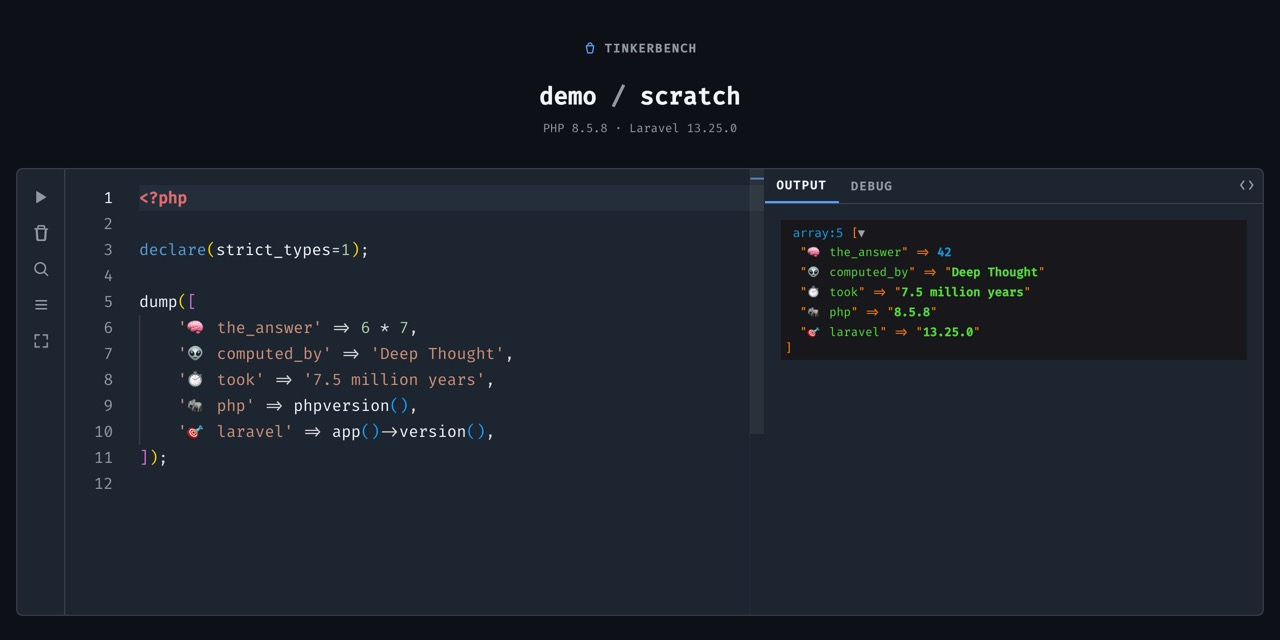
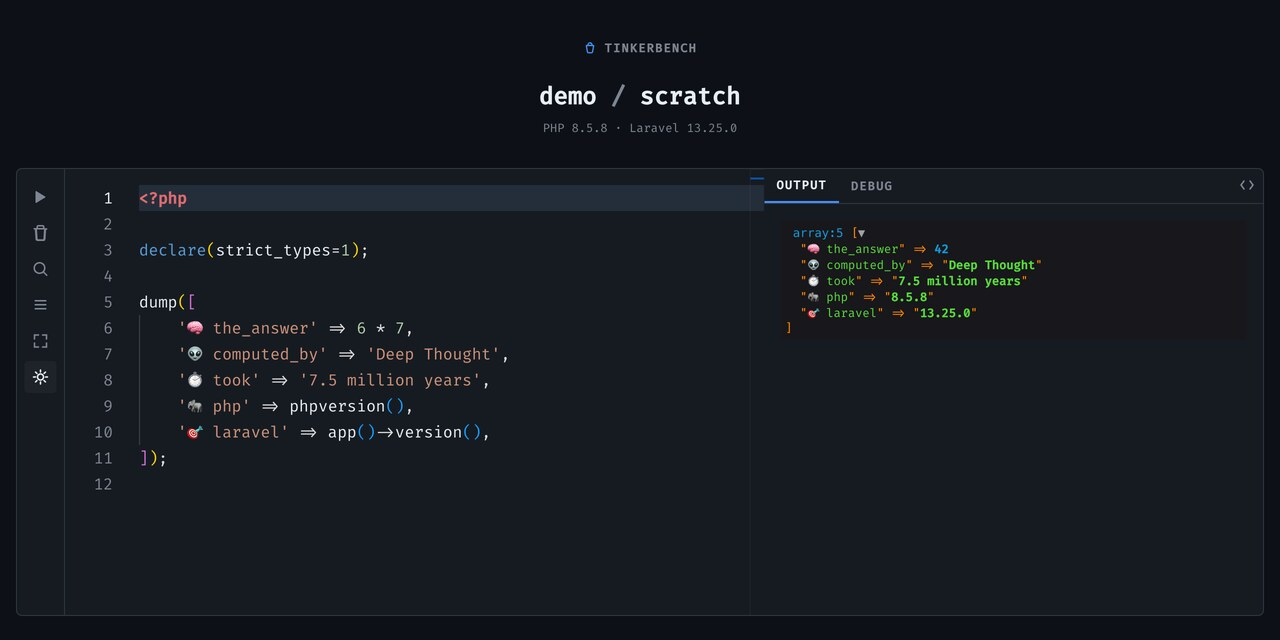
Add light/dark theme, update README and screenshots

diff --git a/README.md b/README.md
@@ -18,12 +18,9 @@ A take on Laravel's [`tinker`](https://github.com/laravel/tinker), inspired by [
 * PHP autocompletion, hover documentation, and signature help for the target project's own code, powered by intelephense (the same language server VS Code uses).
 * Raw or rendered output. Rendered mode shows `dump()`/`dd()` calls with Symfony's interactive VarDumper, syntax highlights JSON, and renders HTML output in a sandboxed frame.
 * A debug tab next to the output, showing the queries, timing, and dumps a snippet run touched, and any exception it threw.
+* Light and dark theme, switchable from the sidebar, defaulting to your system preference.
 
 **tinkerbench runs locally on your own machine through Herd. It's a personal dev tool.**
-
-## Roadmap
-
-* A light theme alongside the current dark one, with a way to switch between them.
 
 ## Requirements
 
